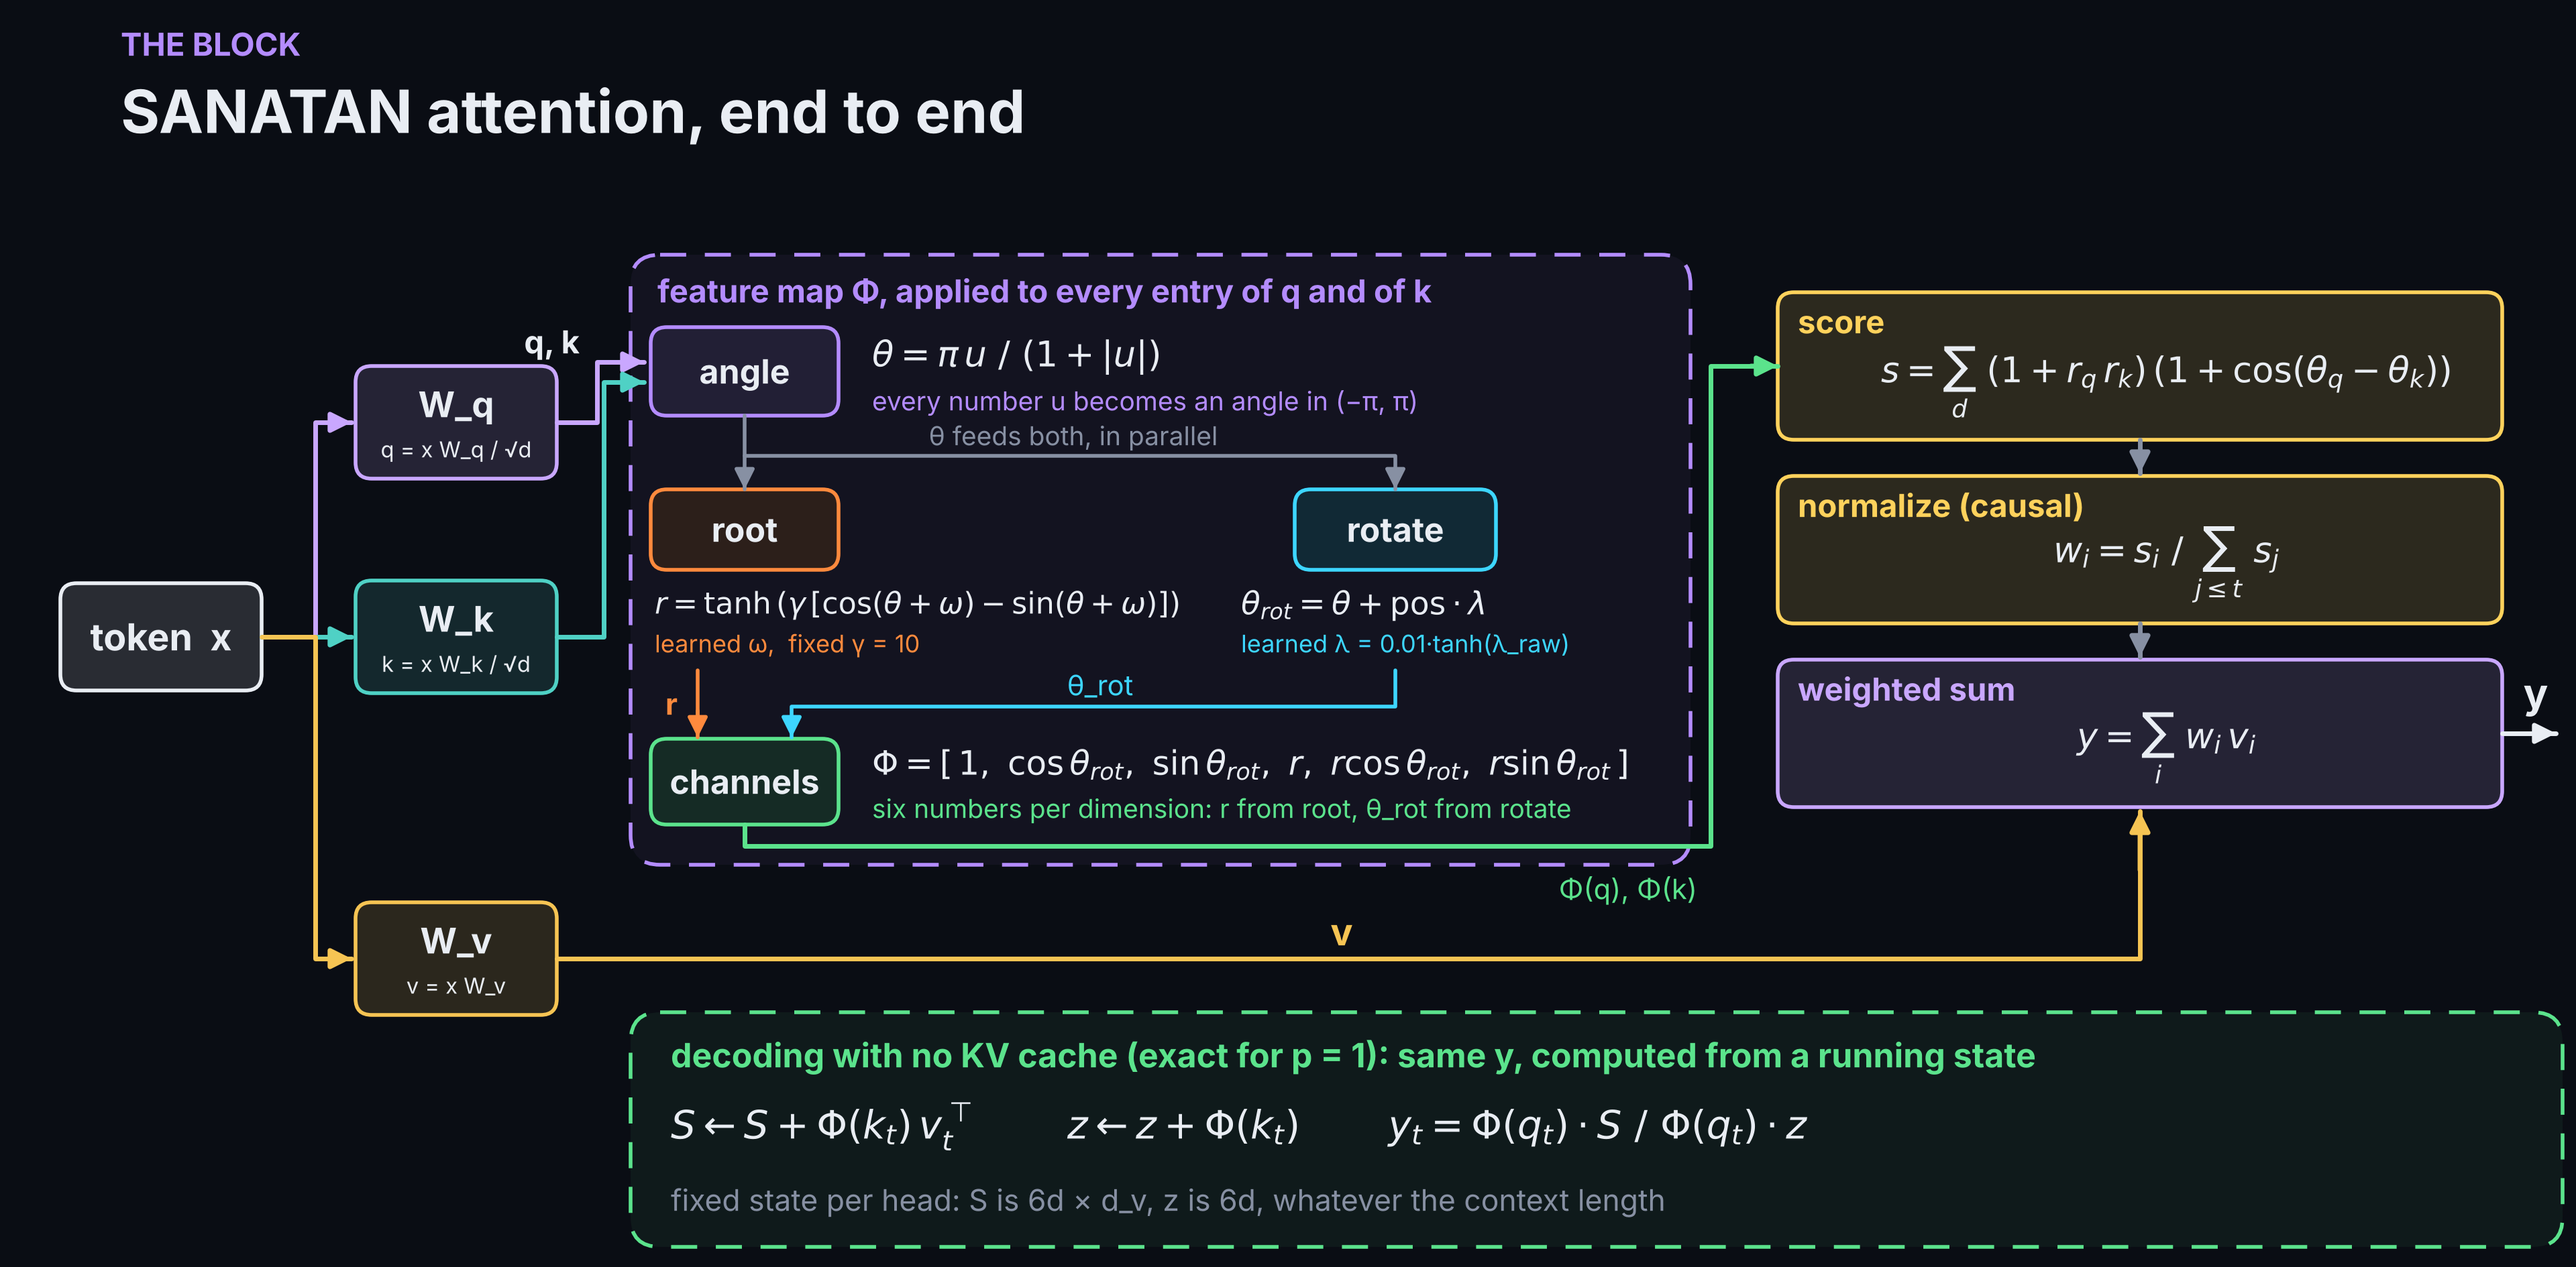
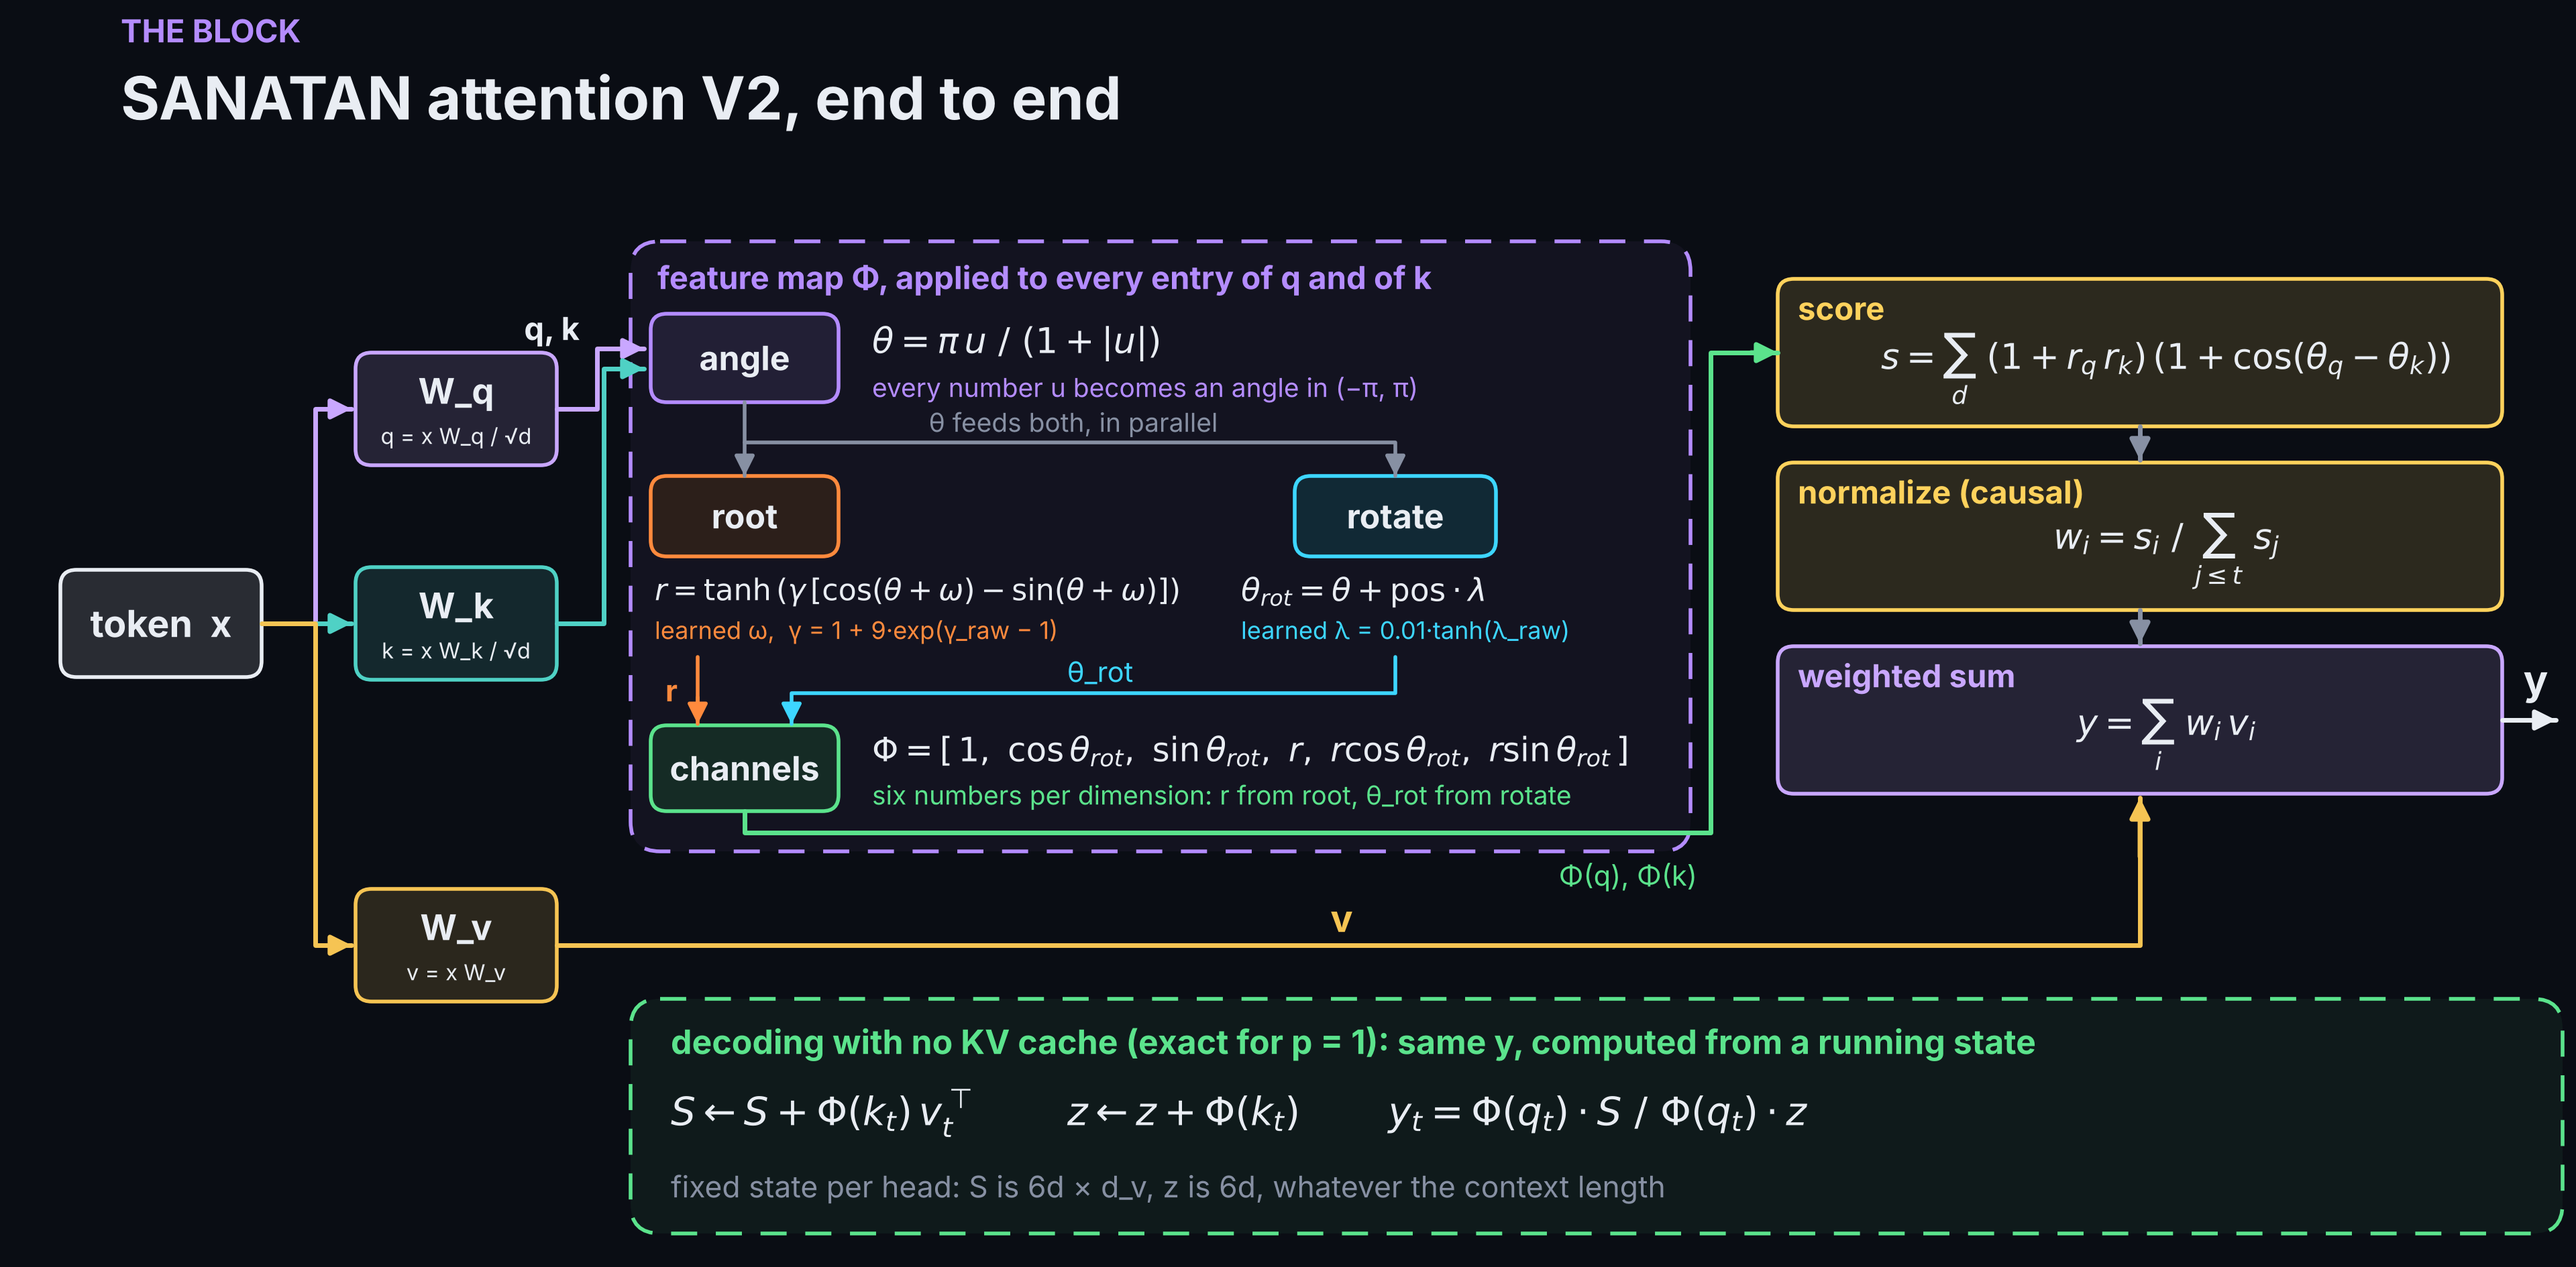
docs: show V2 architecture diagram in README
Claude-Session: https://claude.ai/code/session_011Kc6j44pSLpw7yNNJf77cx

diff --git a/README.md b/README.md
@@ -11,26 +11,9 @@ kernel. At p = 1 the whole model runs as a recurrence with a fixed-size state: n
 
 **Where the idea comes from:** the origin story, from the two matrix roots of i^2 = -1 to the gated score, with worked figures: [docs/MOTIVATION.md](docs/MOTIVATION.md)
 
-## Architecture
+## Architecture (V2)
 
-![SANATAN attention block, end to end](assets/sanatan_architecture.png)
-
-- **Projections.** q = x W_q / √d, k = x W_k / √d, v = x W_v.
-- **Feature map Φ**, applied to every entry u of q and of k:
-  - **Angle:** θ = πu / (1 + |u|) maps every entry into (−π, π) without wrapping.
-  - From θ, two branches run **in parallel**:
-    - **Root:** r = tanh(γ [cos(θ + ω) − sin(θ + ω)]) with learned ω and γ = 10. It is computed
-      from the unrotated θ, so a token's position never changes its root.
-    - **Rotate:** θ_rot = θ + pos·λ with learned λ = 0.01·tanh(λ_raw), so a query-key comparison
-      sees only the distance between the two tokens.
-  - **Channels:** Φ = [1, cos θ_rot, sin θ_rot, r, r cos θ_rot, r sin θ_rot] per dimension.
-- **Score.** The six channels are chosen so the inner product factorizes exactly:
-  Φ(q)·Φ(k) = Σ_d (1 + r_q r_k)(1 + cos(θ_q − θ_k)), a root-parity gate times an angular
-  similarity. Both factors are non-negative, so causal normalization is a plain division,
-  w_i = s_i / Σ_{j≤t} s_j, with no softmax.
-- **Decoding with no KV cache** (exact for p = 1): S ← S + Φ(k_t) v_tᵀ, z ← z + Φ(k_t),
-  y_t = Φ(q_t)·S / Φ(q_t)·z. The state per head is fixed at 6d × d_v + 6d numbers, whatever the
-  context length. (The paper's p > 1 sharpening used during pretraining is omitted from the diagram.)
+![SANATAN attention V2 block, end to end](assets/sanatan_architecture.png)
 
 ## What is in this repo
 
